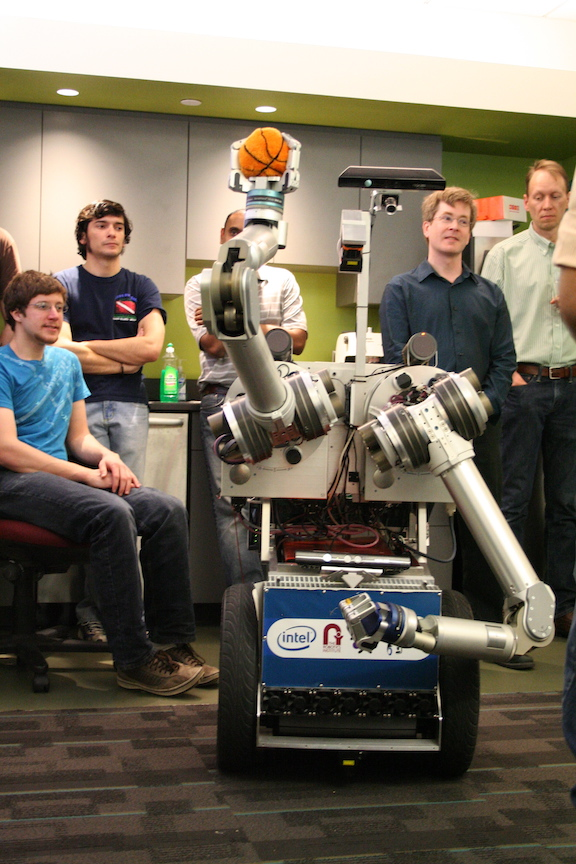
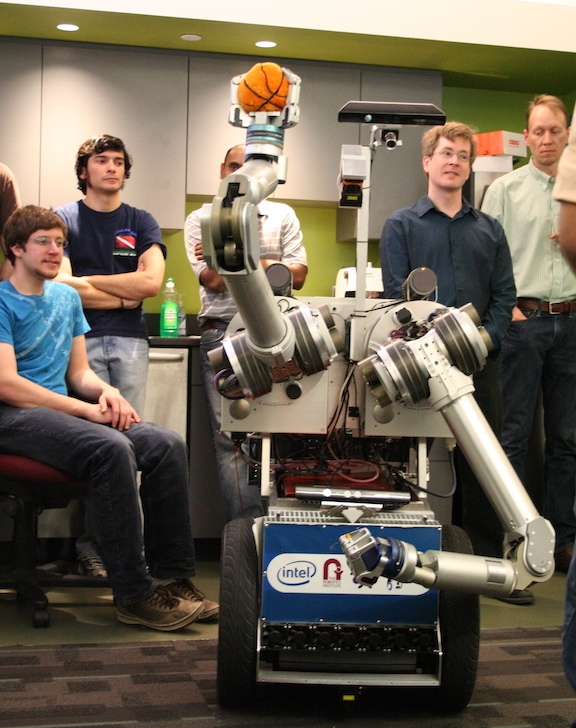
Fine-tuning image

diff --git a/_pages/teaching.md b/_pages/teaching.md
@@ -18,8 +18,8 @@ and _Manipulation Algorithms_, a PhD-level course. These courses have continued 
 ### Robot Autonomy 
 <figure style="width: 75%; max-width: 400px;" class="align-center">
     <img src="{{ site.url }}{{ site.baseurl }}/assets/images/MRSD-herb-hoops.jpg"
-    alt="HERB shooting hoops"/>
-  <figcaption style="text-align: center; font-size:0.7em;">Image caption.</figcaption>
+    alt="Teaching HERB to shoot hoops for a class project"/>
+  <figcaption style="text-align: center; font-size:0.7em;">Teaching HERB to shoot hoops for a class project</figcaption>
 </figure>
 This was the first course of its kind to provide an end-to-end robotics experience:
 from the theory of perception, control, planning and manipulation algorithms, to implementation on 
